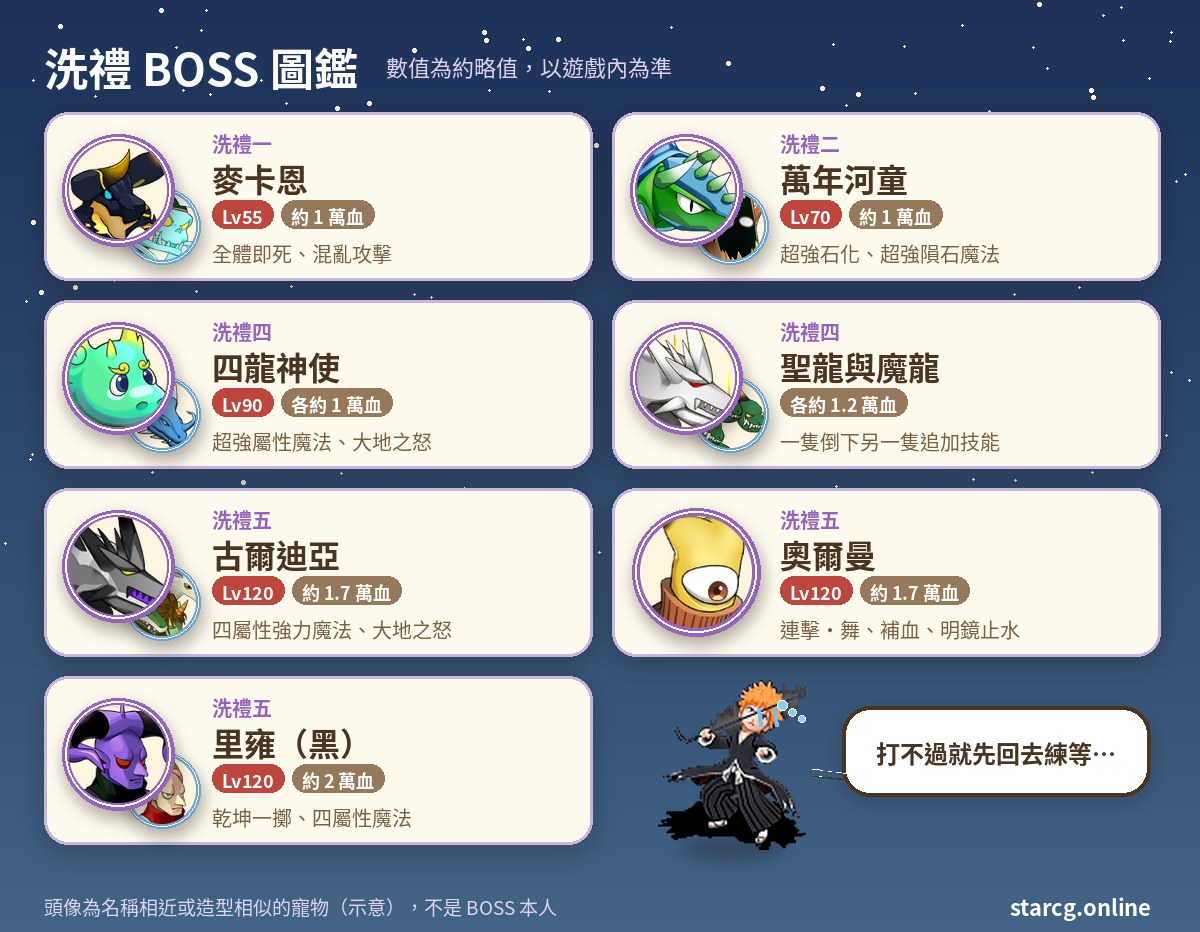
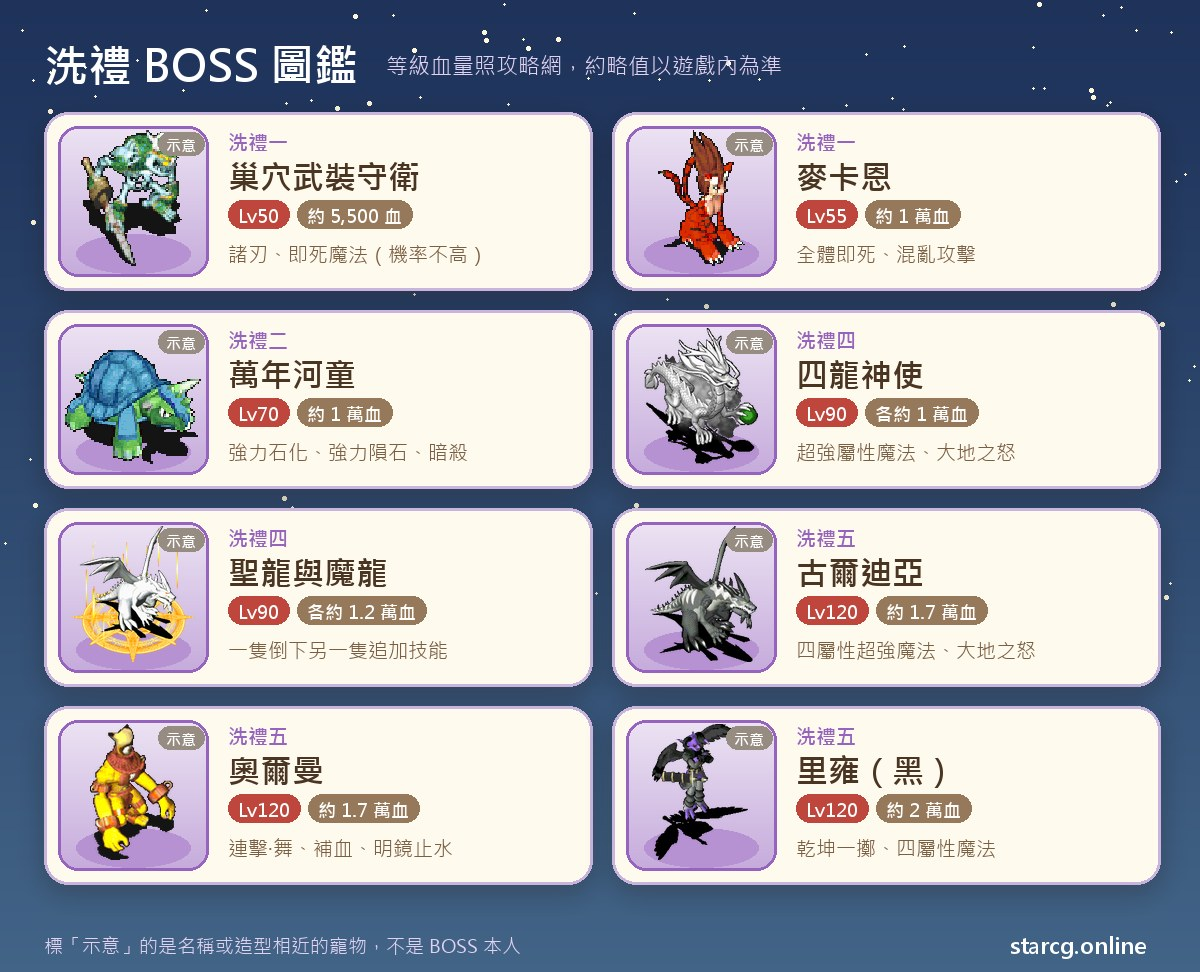
聖殿騎士、洗禮、黑白漩渦、貢品攻略插圖改用全身怪物圖，依攻略網校正數值
Claude-Session: https://claude.ai/code/session_015zE4E5T7154vbHseJrngyz

diff --git a/src/posts/baptism-quest-guide.md b/src/posts/baptism-quest-guide.md
@@ -11,7 +11,7 @@ cover: img/baptism-quest-guide-cover.jpg
 
 > 本文整理自 [星詠魔力攻略網](https://guide.starcg.net/) 的洗禮系列頁面，並用我們自己的方式重新排序與改寫，沒有逐字照搬。BOSS 血量與數值是約略值，實際以遊戲內為準；遊戲更新後內容可能變動。
 
-![洗禮系列五章一覽：路見不平、傳承使者、阿蒙的幻影、龍之試煉、最後的洗禮的推薦等級與獎勵](img/baptism-quest-guide-flow.jpg)
+![洗禮系列五章一覽：路見不平、傳承使者的沼澤樹精、阿蒙的幻影、龍之試煉的大地翼龍、最後的洗禮的奇美拉，附推薦等級與獎勵](img/baptism-quest-guide-flow.jpg)
 
 ## 洗禮系列是什麼？先看整體順序
 
@@ -33,7 +33,7 @@ cover: img/baptism-quest-guide-cover.jpg
 
 洗禮系列不像有些任務需要一大堆材料，但有幾樣東西一旦弄丟或沒準備，就得整段重跑。下面這張圖把各章需要留意的東西集中在一起，建議截圖存起來。
 
-![洗禮任務出發前準備清單：薩爾瓦洛的徽章、龍神之戒、20 萬魔幣與戰慄寵物](img/baptism-quest-guide-prep.jpg)
+![洗禮任務出發前準備清單：薩爾瓦洛的徽章、龍神之戒、20 萬魔幣與戰慄寵物，旁邊是沼澤樹精、大地翼龍與奇美拉](img/baptism-quest-guide-prep.jpg)
 
 錢的部分，洗禮二要交 2,000G，洗禮五如果選技能增長石（初）要交 **200,000 魔幣**，這筆錢最好提早存。洗禮二拿到的傳承者戒指、洗禮四的龍神之戒都是可以交易的裝備，如果你只是想要裝備、不需要稱號，也可以先用本站的 [市場查價](/market/) 看看目前攤位價格，再決定要自己打還是直接買。洗禮五的神殿迷宮會遇到破壞裝備的魔物，身上的主力裝備耐久也要先確認夠不夠。
 
@@ -58,9 +58,6 @@ cover: img/baptism-quest-guide-cover.jpg
 **BOSS 資料**：第一戰在巢穴底部，主角是**巢穴武裝守衛**（50 級、約 5,500 血，邪魔系、二次行動），會攻擊、諸刃，偶爾用即死魔法；旁邊有兩隻 45 級的巢穴捕捉者（水屬性，會冰凍魔法）和兩隻 50 級的巢穴衛兵（不死系，會吸血攻擊）。第二戰是**麥卡恩**（55 級、約一萬血，邪魔系、二次行動），技能非常多：聖盾、乾坤一擲、連擊、氣功彈、**全體即死**，還有混亂攻擊。
 
 **要注意的地方**：巢穴中部的傳送石有陷阱，選錯就得從中部重來，記住自己試過哪一個能省不少時間。麥卡恩的混亂攻擊會打到他自己的嘍囉，算是少數對玩家有利的地方；真正危險的是全體即死，以 50 級的隊伍來說，麥卡恩的等級和血量都偏高，等級不夠時建議多練幾級再進秘密石台。
-
-![洗禮一：秘密石台裡的麥卡恩 Lv55 會二次行動又會全體即死，連自己的手下都砍](img/baptism-quest-guide-scene.jpg)
-
 ## 洗禮二：傳承使者（拿到傳承者戒指）
 
 條件是擁有「愛情捍衛者」，推薦 75 級。
@@ -76,9 +73,11 @@ cover: img/baptism-quest-guide-cover.jpg
 9. 戰勝後找魯耶利蓮娜交出信件，取得「女主人的信」與**傳承者戒指**，被傳回沒落的村莊。
 10. 回加納村酒吧找唉嘆氣的男人（9, 2）交出女主人的信，拿到錢袋、寶石與稱號「法蘭城義勇軍」，完成。
 
-**BOSS 資料**：萬年河童 70 級、約一萬血，二次行動，會戰慄襲心、吸血魔法、**超強石化魔法**、**超強隕石魔法**與暗殺。旁邊的小怪很多：腐屍、鐵剪螃蟹、沼澤樹精、地龍蜥，都是 55 級、約 1,000 血。其中沼澤樹精有三隻，會用石化魔法。
+**BOSS 資料**：萬年河童 70 級、約一萬血，二次行動，會戰慄、吸血魔法、**強力石化魔法**、**強力隕石魔法**與暗殺。旁邊的小怪很多：腐屍 ×2、鐵剪螃蟹 ×2、沼澤樹精 ×3、地龍蜥 ×2，都是 55 級、約 1,000 血。其中沼澤樹精有三隻，會石化。
 
-**打法**：攻略網的建議很明確——**先清沼澤樹精**。它們血量低但石化機率高，放著不管很容易整隊被控住，再被萬年河童的超強魔法收尾。鐵剪螃蟹會酒醉魔法和戰慄襲心，也建議早點處理。
+**打法**：攻略網的建議很明確——**先清沼澤樹精**。它們血量低但石化機率高，放著不管很容易整隊被控住，再被萬年河童的強力魔法收尾。鐵剪螃蟹會酒醉和戰慄，也建議早點處理。
+
+![洗禮二：萬年河童身邊的沼澤樹精 Lv55 約 1,000 血，石化機率高，角色被石化動彈不得哭出來](img/baptism-quest-guide-scene.jpg)
 
 **獎勵說明**：傳承者戒指是 Lv.6 戒指，攻擊 +41、防禦 +10、敏捷 +10、回復 +10，對毒、昏睡、石化、酒醉、混亂、遺忘各有 +20 抗性，耐久 50，可以交易。錢袋可以使用四次，每次開出隨機數量的阿爾卡迪亞古錢；寶石鑑定後是 Lv.6 綠寶石。
 
@@ -125,7 +124,7 @@ cover: img/baptism-quest-guide-cover.jpg
 - 風龍神使：風刃魔法、超強風刃魔法、超強補血魔法，物理攻擊有機會被閃避；小怪烈風翼龍（會諸刃）。
 - 火龍神使：乾坤一擲、諸刃、連擊、火焰魔法、超強火焰魔法；小怪火焰翼龍（會聖盾）。
 
-**BOSS 資料（最終戰）**：聖龍與魔龍各約一萬兩千血。聖龍會攻擊、連擊、諸刃、乾坤一擲；魔龍會四屬性超強攻擊魔法、攻擊無效、吸血魔法。麻煩在於**先倒一隻，另一隻就會追加技能**：魔龍倒了，聖龍會多出魔法封印；聖龍倒了，魔龍會多出超強即死魔法。
+**BOSS 資料（最終戰）**：聖龍與魔龍都是 90 級、各約一萬兩千血，邪魔系、二次行動。聖龍會攻擊、連擊、諸刃、乾坤一擲；魔龍會四屬性超強攻擊魔法、攻擊無效、吸血魔法。麻煩在於**先倒一隻，另一隻就會追加技能**：魔龍倒了，聖龍會多出魔法封印；聖龍倒了，魔龍會多出超強即死魔法。
 
 **打法**：攻略網建議先對魔龍用「戰慄」把魔力抽掉；沒有戰慄的話就先合擊聖龍。魔龍的魔力見底後，可以先合擊聖龍、再合擊魔龍。用本站的 [傷害計算機](/damage/) 先估一下隊伍對一萬兩千血的輸出要幾回合，比較好決定要不要帶戰慄寵物。
 
@@ -142,9 +141,9 @@ cover: img/baptism-quest-guide-cover.jpg
 
 **迷宮小怪**：神殿的迷宮裡有 95 級的大角羊寒冰牛頭怪與莉迪雅烈風牛頭怪，都是二次行動，會乾坤一擲、崩擊，而且會**裝備破壞**。走 10 層隨機迷宮時，用本站的 [迷宮找樓梯](/maze/) 邊走邊記錄，少繞路就少挨幾次破壞裝備。
 
-**BOSS 陣容一：黑龍**。古爾迪亞 120 級、約一萬七千血，會乾坤一擲、四屬性強力攻擊魔法、強力中毒魔法、大地之怒；旁邊五隻 95 級奇美拉（綠、藍、黑、紅、黃）各約一萬血，會戰慄襲心、連擊、聖盾。攻略網給兩種打法：一是帶寵物用戰慄抽魔，BOSS 魔量降到 200 以下就不再用超級魔法、降到 10 以下就不再用乾坤一擲，抽乾後逐一擊倒奇美拉再合擊 BOSS，適合有專職補血與祈禱的傳教士；二是不帶巫師、全隊防禦 20 以上，直接集火 BOSS，再清奇美拉。
+**BOSS 陣容一：黑龍**。古爾迪亞 120 級、約一萬七千血，會乾坤一擲、四屬性超強攻擊魔法、超強中毒魔法、大地之怒；旁邊五隻 95 級奇美拉（綠、藍、黑、紅、黃）各約一萬血，會戰慄襲心、連擊、聖盾。攻略網給兩種打法：一是帶寵物用戰慄抽魔，BOSS 魔量降到 200 以下就不再用超級魔法、降到 10 以下就不再用乾坤一擲，抽乾後逐一擊倒奇美拉再合擊 BOSS，適合有專職補血與祈禱的傳教士；二是不帶巫師、全隊防禦 20 以上，直接集火 BOSS，再清奇美拉。
 
-**BOSS 陣容二：奧爾曼**。奧爾曼 120 級、約一萬七千血，會諸刃、乾坤一擲、連擊·舞、補血魔法、明鏡止水；身邊四隻 95 級鬥神（綠地、紅火、黃風、藍水）各約一萬兩千血，各有一套技能，黃色會魔法封印，藍色會強力昏睡魔法與石化。鬥神的魔量掉到 5% 以下後會一直用氣功彈。穩健打法是依**黃 → 紅 → 綠 → 藍**清掉嘍囉再合擊 BOSS，黃色鬥神放魔法封印時可以用防禦減傷；高輸出隊伍則可以依紅 → 綠 → 黃 → 藍的順序擊殺。
+**BOSS 陣容二：奧爾曼**。奧爾曼 120 級、約一萬七千血，會諸刃、乾坤一擲、連擊·舞、補血魔法、明鏡止水；身邊四隻 95 級鬥神（綠地、紅火、黃風、藍水）各約一萬兩千血，各有一套技能，黃色會魔法封印，藍色會超強昏睡魔法與石化攻擊。鬥神的魔量掉到 5% 以下後會一直用氣功彈。穩健打法是依**黃 → 紅 → 綠 → 藍**清掉嘍囉再合擊 BOSS，黃色鬥神放魔法封印時可以用防禦減傷；高輸出隊伍則可以依紅 → 綠 → 黃 → 藍的順序擊殺。
 
 **BOSS 陣容三：里雍**。黑色里雍 120 級、約兩萬血，會乾坤一擲、諸刃、四屬性攻擊魔法，被戰慄後還會追加連擊；黃、紅、綠、藍四隻里雍各 95 級、約一萬兩千血，四屬性抗性都是 20。建議用祈禱減傷，擊殺順序可以是黃 → 綠 → 藍 → BOSS → 紅，或黃 → BOSS → 綠 → 藍 → 紅；紅色里雍一直放明鏡止水的話，直接戰慄抽魔。另一種做法是先用戰慄抽乾黃色，再依屬性剋制逐一擊殺。
 
@@ -156,7 +155,7 @@ cover: img/baptism-quest-guide-cover.jpg
 
 交出的三個稱號不會從永久稱號成就裡消失，成就會以橘色保留；但想再領一次獎勵，就得重跑前置任務把稱號拿回來。
 
-![洗禮系列 BOSS 圖鑑：麥卡恩、萬年河童、四龍神使、聖龍與魔龍、古爾迪亞、奧爾曼、里雍的等級血量](img/baptism-quest-guide-boss.jpg)
+![洗禮系列 BOSS 圖鑑：巢穴武裝守衛、麥卡恩、萬年河童、四龍神使、聖龍與魔龍、古爾迪亞、奧爾曼、里雍的等級血量](img/baptism-quest-guide-boss.jpg)
 
 ## 洗禮系列常見問題
 

diff --git a/src/posts/bw-vortex-quest-guide.md b/src/posts/bw-vortex-quest-guide.md
@@ -11,7 +11,7 @@ cover: img/bw-vortex-quest-guide-cover.jpg
 
 > 本文整理自 [星詠魔力攻略網](https://guide.starcg.net/) 的黑白漩渦系列頁面，並用我們自己的方式重新排序與改寫，沒有逐字照搬。BOSS 血量與數值是約略值，實際以遊戲內為準；攻略網部分頁面有用字前後不一致的地方，本文已標註，遊戲更新後內容也可能變動。
 
-![黑白漩渦任務四章一覽：黑白一消亡之地到黑白四閃耀者引導者，每章的推薦等級與黑白兩路線獎勵](img/bw-vortex-quest-guide-flow.jpg)
+![黑白漩渦任務四章一覽：黑白一消亡之地到黑白四閃耀者引導者，每章的推薦等級、黑白兩路線獎勵，以及水蜘蛛、丘比特、烈風翼龍、天使蝙蝠](img/bw-vortex-quest-guide-flow.jpg)
 
 ## 黑白漩渦系列是什麼？先看整體順序
 
@@ -36,7 +36,7 @@ cover: img/bw-vortex-quest-guide-cover.jpg
 
 黑白漩渦系列的準備重點不在消耗品，而在「條件」與「任務道具」：少一個稱號就進不了門，丟掉一個約束就得重跑。下面這張清單把每章需要的東西集中在一起，出發前對照一次最保險。
 
-![黑白漩渦任務出發前準備清單：神眼、世界之心、解放者稱號、物品欄空位等](img/bw-vortex-quest-guide-prep.jpg)
+![黑白漩渦任務出發前準備清單：神眼、世界之心、解放者稱號、物品欄空位等，旁邊是掉神眼的水蜘蛛](img/bw-vortex-quest-guide-prep.jpg)
 
 黑白一需要每個人自己的**神眼**，要到角笛大風洞打水蜘蛛取得，不能交易，只能自己打。黑白三黑路線的獎勵**漆黑之環**（Lv.8 手環）可以交易，如果只是想要這條手環、不打算走完整個系列，可以先用本站的 [市場查價](/market/) 看看攤位上有沒有人在賣、價格大概多少，再決定要不要自己跑。黑白四兩場二連戰都要求**每位隊員的物品欄留空**，這一點最常被忘記，建議出發前先把背包整理乾淨。
 
@@ -60,7 +60,7 @@ cover: img/bw-vortex-quest-guide-cover.jpg
 
 **BOSS 資料**
 
-- 黑路線｜**教團神官**：85 級、約 18,000 血，地 30／水 70，邪魔系、抗咒。會攻擊、防禦、聖盾、四屬性強力攻擊魔法、強力中毒與補血魔法，開場召喚 2 隻**教團守衛**（80 級、各約 8,000 血，不抗咒，會四屬性攻擊魔法與強力昏睡魔法）。
+- 黑路線｜**教團神官**：85 級、約 18,000 血，地 30／水 70，邪魔系、抗咒。會攻擊、防禦、聖盾、四屬性超強攻擊魔法、超強中毒魔法與超強補血魔法，開場召喚 2 隻**教團守衛**（80 級、各約 8,000 血，不抗咒，會四屬性攻擊魔法與強力昏睡魔法）。
 - 白路線｜**克勞姆**：85 級、約 15,000 血，地 70／水 30，不死系、抗咒。會諸刃、乾坤一擲、連擊、聖盾、明鏡止水，開場召喚 2 隻**細胞分裂**（80 級、各約 8,000 血，不抗咒，會乾坤一擲、連擊、諸刃，擊倒克勞姆後還會加入全體傷害的自爆）。
 
 **打法**：攻略網對白路線的建議是先清掉被召喚的小怪，等克勞姆沒辦法再用明鏡止水時，再集中合擊。黑路線要注意教團神官的戰鬥是「選是的那個人單獨過去」，等於是一個人面對 85 級的 BOSS 加兩隻守衛，等級與裝備不夠的話會很吃力。
@@ -100,7 +100,7 @@ cover: img/bw-vortex-quest-guide-cover.jpg
 - 想重打白路線，要先丟掉白之約束；想重打黑路線，要先丟掉黑之約束。
 - 獎勵護身符都是 Lv.6、耐久 100、不可交易。**果敢的勇氣**：攻擊 +30、防禦 +10、敏捷 +15、必殺 +6、命中 +6、生命 +100、魔力 +85。**堅毅的決心**：攻擊 +20、防禦 +20、敏捷 +15、必殺 +3、反擊 +3、命中 +3、閃躲 +3、生命 +85、魔力 +100。
 
-![黑白二：漆黑之間的黑龍使者帶著一大群小惡魔，角色被超強火焰打到哭](img/bw-vortex-quest-guide-scene.jpg)
+![黑白二：漆黑之間黑龍使者身邊的小惡魔 Lv75 約 2,000 血，一次八九隻圍上來把角色打到哭](img/bw-vortex-quest-guide-scene.jpg)
 
 ## 黑白三：黑白意志（流程最長的一章）
 
@@ -133,7 +133,7 @@ cover: img/bw-vortex-quest-guide-cover.jpg
 - 黑路線開場｜**白龍的使者**：99 級、約 10,000 血，四屬性各 30，邪魔系、抗咒。會諸刃、補血魔法、超強風刃魔法、強力石化魔法，帶 2～4 隻**白龍族**（90 級、各約 8,000 血，水 100，龍系、不抗咒，會諸刃、陽炎、冰凍魔法）。
 - 白路線開場｜**黑龍的使者**：99 級、約 10,000 血，四屬性各 30，邪魔系、抗咒。會混亂攻擊、暗殺、乾坤一擲、氣功彈、超強火焰魔法、強力混亂魔法，帶 2～4 隻**黑龍族**（90 級、各約 8,000 血，火 100，龍系、不抗咒，會連擊、乾坤一擲、火焰魔法）。
 - 黑路線虛無之墓｜**？？？**：89 級、約 9,000 血，四屬性各 30，邪魔系，會對應四屬性的單體超強攻擊魔法與氣功彈，身邊有大地、火焰、寒冰、烈風翼龍（87 級、各約 2,000 血，不抗咒，**二次行動**，會聖盾、陽炎）。
-- 單人戰｜**迷茫的龍**：75 級、約 6,000 血，風 100，龍系、不抗咒。會強力風刃魔法，但攻略網註明是**固定傷害 1**，單人也不用太緊張。
+- 單人戰｜**迷惘的龍**（攻略網表格寫作「迷茫的龍」）：75 級、約 6,000 血，風 100，龍系、不抗咒。會強力風刃魔法，但攻略網註明是**固定傷害 1**，單人也不用太緊張。
 
 **要注意的地方**：
 
@@ -169,8 +169,8 @@ cover: img/bw-vortex-quest-guide-cover.jpg
 
 **BOSS 資料**
 
-- 各層 BOSS｜**白龍族**（黑路線）：約 100 級、約 12,000 血，水 50／火 50，不抗咒，**二次行動**，會諸刃、陽炎、冰凍魔法。
-- 各層 BOSS｜**黑龍族**（白路線）：約 100 級、約 12,000 血，火 50／風 50，不抗咒，**二次行動**，會乾坤一擲、連擊、火焰魔法。
+- 各層 BOSS｜**白龍族**（黑路線）：100 級、約 12,000 血，水 50／火 50，不抗咒，**二次行動**，會諸刃、陽炎、冰凍魔法。
+- 各層 BOSS｜**黑龍族**（白路線）：100 級、約 12,000 血，火 50／風 50，不抗咒，**二次行動**，會乾坤一擲、連擊、火焰魔法。
 - 二連戰｜**白龍之長**、**黑龍之長**：兩者都是 108 級、約 18,000 血，地 30／風 70，抗咒，**二次行動**。會乾坤一擲、崩擊、反擊、魔法封印、混亂攻擊、大地之怒、明鏡止水，被施放制禦魔法後還會追加連擊。
 
 **要注意的地方**：

diff --git a/src/posts/tribute-quest-guide.md b/src/posts/tribute-quest-guide.md
@@ -11,7 +11,7 @@ cover: img/tribute-quest-guide-cover.jpg
 
 > 本文整理自 [星詠魔力攻略網](https://guide.starcg.net/) 的貢品系列頁面與「海賊的寶地」頁面，並用我們自己的方式重新排序與改寫，沒有逐字照搬。BOSS 血量與數值是約略值，攻略網有幾處等級前後不一致、屬性欄空白的地方，本文已標註；實際以遊戲內為準，遊戲更新後內容可能變動。
 
-![貢品任務四章一覽：被奪走的貢品、泰格利的煩惱、喪失心智的海盜、蒂娜沉船遺跡與各章稱號](img/tribute-quest-guide-flow.jpg)
+![貢品任務四章一覽：被奪走的貢品、泰格利的煩惱、喪失心智的海盜、蒂娜沉船遺跡與各章稱號，配上迷你蝙蝠、血魔、殭屍與蜥蜴戰士](img/tribute-quest-guide-flow.jpg)
 
 ## 貢品系列是什麼？先看整體順序
 
@@ -30,7 +30,7 @@ cover: img/tribute-quest-guide-cover.jpg
 
 貢品系列不太需要高價消耗品，準備重點是「時段」和「特定道具」：海賊巢穴要夜晚、海賊祠堂要清晨、貢品二調查樣本要白天；泰格利要四道料理，貢品三要三樣採集素材與兩格背包空位。
 
-![貢品任務出發前準備清單：海賊劍等三素材、四道料理、護士帽、背包空位與遊戲時段](img/tribute-quest-guide-prep.jpg)
+![貢品任務出發前準備清單：海賊劍等三素材、四道料理、護士帽、背包空位、遊戲時段與隨機迷宮層數](img/tribute-quest-guide-prep.jpg)
 
 貢品二要交給泰格利的青椒肉絲、燒雞、漢堡、壽喜鍋各一份，自己不會料理的話，可以先用本站的 [市場查價](/market/) 搜尋這幾道料理，看看攤位價格再決定要自己做還是直接買。另外，這個系列的隨機迷宮很多：芙蕾亞海賊基地 5 層、海賊巢穴約 20 層、貢品三的暗道約 19 層、貢品四的海盜暗道 5 層，再加上地獄妖犬巢穴，建議搭配本站的 [迷宮找樓梯](/maze/) 邊走邊記錄樓梯位置。
 
@@ -84,9 +84,6 @@ cover: img/tribute-quest-guide-cover.jpg
 - 怨恨的幽靈同時會無效與反彈物理和魔法，打之前要看清楚牠身上是哪一種狀態再出手，不然打下去的傷害可能全彈回自己身上。六隻血魔二次行動、不抗咒，可以考慮先用控制技能壓住。
 - 打完幽靈要**先解散隊伍**，才能調查墳墓拿項鍊。
 - 已經完成過任務、或丟掉泰格利項鍊的人，可以跟著參加 BOSS 戰，但拿不到後續道具。
-
-![貢品二：蒂娜村墳墓的怨恨的幽靈帶著六隻血魔，攻擊全被反彈回來打到角色哭](img/tribute-quest-guide-scene.jpg)
-
 ## 前置任務：海賊的寶地（貢品三三素材）
 
 貢品三要求持有【海賊劍】、【謝爾席拉的樹枝】、【亞留特獅子的皮】，這三樣都來自「海賊的寶地」任務。這個任務推薦 25 級，條件是伐木、狩獵、挖掘技能都達到 3 級。
@@ -129,6 +126,8 @@ cover: img/tribute-quest-guide-cover.jpg
 
 **最重要的警告**：交出頭巾前，**每位隊員的物品欄至少要留 2 格**，空間不夠會拿不到永久稱號「野狼勇士」，損失很大。獎品內容是寶石（攻略網一處寫 5～8 級、一處寫 Lv.8 各色寶石）、鋼騎之礦 ×2、魔族的水晶 ×2、火焰之魂 ×2、誓言之證 ×2。想重新做這一章的話，要從貢品二開始。
 
+![貢品 BOSS 圖鑑：敏捷與勇猛的守衛、失去心智的頭目、怨恨的幽靈、改造殭屍、喪失心智的頭目、海盜與小沐的等級與血量](img/tribute-quest-guide-boss.jpg)
+
 ## 貢品四：蒂娜沉船遺跡（揭開真相之人）
 
 推薦 70 級，條件是擁有「野狼勇士」稱號。這章要在海底、海盜暗道與地獄妖犬巢穴之間來回，最後一戰敵人最多。
@@ -154,12 +153,12 @@ cover: img/tribute-quest-guide-cover.jpg
 
 **BOSS 資料**
 
-- 海盜暗道｜**海盜**：約 8,000 血，會攻擊、防禦、諸刃、明鏡止水、連擊、崩擊。
+- 海盜暗道｜**海盜**：約 8,000 血（攻略網未列等級），會攻擊、防禦、諸刃、明鏡止水、連擊、崩擊。
 - 最終戰｜**小沐**：70 級、約 10,000 血，會超強狀態魔法、超強魔法、**攻擊無效**。同場有迷你蝙蝠、水蜘蛛、史萊姆、蜥蜴戰士各 2 隻（70 級，會諸刃、乾坤、連擊；攻略網未列血量）。
 
 **打法**：攻略網建議先用多人合擊把嘍囉清掉，再用寵物戰慄小沐，持續拖到牠無法行動。小沐有攻擊無效又會超強狀態魔法，八隻嘍囉也都會連擊與乾坤，是整個系列敵人最多的一戰，抗異常的手段要準備好。
 
-![貢品 BOSS 圖鑑：守衛、失去心智的頭目、怨恨的幽靈、改造殭屍、喪失心智的頭目、海盜與小沐的等級與血量](img/tribute-quest-guide-boss.jpg)
+![貢品四：海盜暗道底層的海盜約 8,000 血，會明鏡止水、連擊與崩擊，把角色打到哭](img/tribute-quest-guide-scene.jpg)
 
 ## 貢品系列常見問題
 

diff --git a/src/posts/templar-quest-guide.md b/src/posts/templar-quest-guide.md
@@ -11,7 +11,7 @@ cover: img/templar-quest-guide-cover.jpg
 
 > 本文整理自 [星詠魔力攻略網](https://guide.starcg.net/) 的聖殿騎士系列頁面，並用我們自己的方式重新排序與改寫，沒有逐字照搬。攻略網這個系列大部分 BOSS 沒有列出等級、血量與技能，本文也不會自行補上；數值以遊戲內為準，遊戲更新後內容可能變動。
 
-![聖殿騎士任務三章一覽：追查蹤跡、騎士誓言、聖劍傳說的推薦等級與獎勵](img/templar-quest-guide-flow.jpg)
+![聖殿騎士任務三章一覽：追查蹤跡的猶大、騎士誓言的水蜘蛛、聖劍傳說的豪克的愛犬（示意），附推薦等級與獎勵](img/templar-quest-guide-flow.jpg)
 
 ## 聖殿騎士系列是什麼？先看整體順序
 
@@ -29,7 +29,7 @@ cover: img/templar-quest-guide-cover.jpg
 
 聖殿騎士系列的準備重點是「每個人都要有」的道具：第一章每人一瓶藥水，第二章每人一個神眼、一個失魂的首飾，少一個人就卡在門口。
 
-![聖殿騎士任務出發前準備清單：生命力回復藥、神眼、失魂的首飾、開啟者稱號、騎士槍等](img/templar-quest-guide-prep.jpg)
+![聖殿騎士任務出發前準備清單：生命力回復藥、神眼、失魂的首飾、開啟者稱號、騎士槍等，旁邊是聖殿迷宮的猶大與角笛大風穴的水蜘蛛](img/templar-quest-guide-prep.jpg)
 
 「生命力回復藥 (1000)」是第一章進迷宮的門票，每人一瓶，交出去就沒了，建議每個人多帶一瓶備用。藥水與第三章可能用到的醋飯壽司都可以先用本站的 [市場查價](/market/) 比價再買。神眼只能自己到角笛大風穴打水蜘蛛取得，失魂的首飾則要做「旅館調查」任務，這兩樣最花時間，最好在開始聖殿騎士二之前就讓全隊備齊。
 
@@ -54,11 +54,13 @@ cover: img/templar-quest-guide-cover.jpg
 - 首飾只要隊長集齊即可，隊員打到的首飾直接交給隊長就好。
 - **騎士槍不要丟**，聖殿騎士二的條件就是它。
 
+![聖殿騎士一：聖殿迷宮的猶大揮槍暴擊，角色哭著等首飾掉落，提醒先打狂戰將軍以免它消失約 3 分鐘](img/templar-quest-guide-scene.jpg)
+
 **隱藏獎勵**：擊敗巴洛斯時有低機率掉落「**聖殿騎士團徽章**」，持有者可以交給克魯斯換取**聖殿首飾**。攻略網把聖殿首飾列為稀有道具，沒有寫出它的數值。
 
 **BOSS 資料**：攻略網這一頁沒有列出猶大、凱法、帕布提斯馬、狂戰將軍與巴洛斯的等級、血量與技能，也沒有寫聖殿迷宮的層數。推薦等級是 90 級，建議以這個等級為準組隊；實際強度以遊戲內為準。
 
-![聖殿騎士 BOSS 圖鑑：猶大、凱法、帕布提斯馬、狂戰將軍、巴洛斯、圓桌騎士貝蒂維爾、漁夫歐姆豪克與英雄王吉魯迦美休](img/templar-quest-guide-boss.jpg)
+![聖殿騎士 BOSS 圖鑑：猶大、凱法、帕布提斯馬、狂戰將軍、巴洛斯、圓桌騎士貝蒂維爾、漁夫歐姆豪克、豪克的愛犬與英雄王吉魯迦美休](img/templar-quest-guide-boss.jpg)
 
 ## 聖殿騎士二：騎士誓言（取得聖劍）
 
@@ -83,7 +85,7 @@ cover: img/templar-quest-guide-cover.jpg
 
 ## 聖殿騎士三：聖劍傳說（英雄王與誓約之劍鞘）
 
-推薦 95 級。條件是持有【聖劍】與【精靈的水鏡】。精靈的水鏡可以從「六曜之塔」任務取得，也可以照下面第 1 步向漁夫拿。
+推薦 95 級。條件是持有【聖劍】與【精靈的水鏡】，攻略網另外列出需完成「六曜之塔」（聖殿騎士一已要求過）。精靈的水鏡可以從「六曜之塔」任務取得，也可以照下面第 1 步向漁夫拿。
 
 1. **取得精靈的水鏡**：到伊爾村找**漁夫歐姆豪克**（31, 45）對話。他會依序問你要不要用以下東西交換水鏡，任何一題選「是」就直接拿到：
    - 用 **10000G** 買下；
@@ -104,8 +106,6 @@ cover: img/templar-quest-guide-cover.jpg
 - **英雄王吉魯迦美休**：攻略網沒有列出等級、血量與技能。
 
 **打法與提醒**：歐姆豪克這場等級不高，但愛犬會裝備破壞，不想冒裝備被打壞的風險，可以直接用 10000G、醋飯壽司或魔族的水晶換水鏡。攻略網另外提到，星詠魔力已經取消寵物改造任務，所以「偷狗」（捕捉豪克的愛犬）沒有實際用途，不需要特地準備。
-
-![聖殿騎士三：伊爾村漁夫歐姆豪克的愛犬會裝備破壞，角色看著被咬壞的裝備哭出來](img/templar-quest-guide-scene.jpg)
 
 **獎勵說明**：
 
